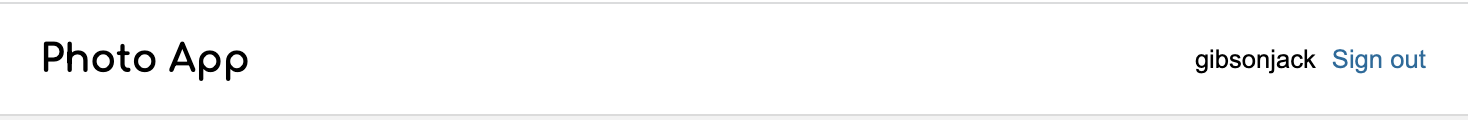
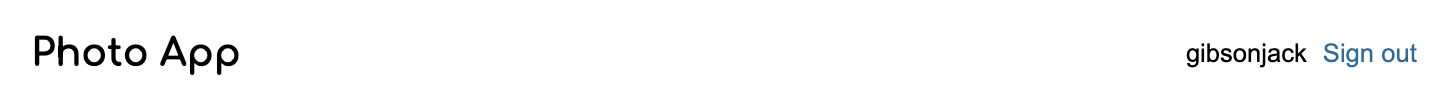
updates

diff --git a/pages/_assignments/hw01.md b/pages/_assignments/hw01.md
@@ -9,6 +9,35 @@ draft: 0
 points: 20
 ---
 
+<style>
+    .interface-table {
+        width: 95%;
+        border: solid 1px #ccc;
+
+    }
+    .interface-table tr, .interface-table th, .interface-table td {
+        border: solid 0px #000;
+        background: #f2f2f2;
+    }
+    .interface-table td {
+        padding: 0px;
+    }
+    .interface-table .right {
+        width: 60%;
+        text-align: right;
+    }
+    .interface-table .right img {
+        width: 85%;
+    }
+    .interface-table .left {
+        width: 40%;
+        text-align: left;
+    }
+    .interface-table .left img {
+        width: 85%;
+    }
+</style>
+
 > {:.callout}
 > ## Collaboration and Code Sharing Policy: Read Carefully
 > For HW1, you are welcome to work in pairs (optional). You must still turn in your own html and css files, but you can collaborate on code and discuss code and strategies. If you collaborate, you'll just list your partner in the comments section of Canvas. 
@@ -20,9 +49,6 @@ points: 20
 > **`ec_points_individual = ec_total_points / n;`**
 
 In this assignment, you will create an HTML / CSS version of a photo sharing app to communicate the look and feel of your app in a web browser.
-
-<img class="frame" style="height:340px;" src="/winter2022/assets/images/hw01/hw01-desktop.gif"/> <img  class="frame" style="height:340px;" src="/winter2022/assets/images/hw01/hw01-mobile.gif"/>
-
 
 ## Part 1: Setup
 
@@ -50,6 +76,46 @@ __NOTE:__ The above code sets up your initial repository. For any additional cod
 1. Use `git add .` to ask git to track any new code files you create.
 1. Use `git commit -am "my message"` to commit changes to your repository.
 1. Use `git push origin main` to push changes to GitHub
+
+## Part 2: Build the PhotoApp Interface
+Using HTML & CSS (no JavaScript yet), you are going to build the following interface:
+
+### Desktop Version
+<img class="frame" style="width:100%;" src="/winter2022/assets/images/hw01/hw01-desktop.gif"/>
+
+There are four main sections:
+#### 1. Nav Bar
+A nav bar, which has the title of the app (or logo) on the left and a username and log out button on the right:
+
+<img class="frame large" src="/winter2022/assets/images/hw01/navbar.png"/>
+
+#### 2. Recommendations Panel
+A recommendations panel, which gives suggestions of who to follow:
+
+<img class="frame" style="width:35%;" src="/winter2022/assets/images/hw01/recommendations.png"/>
+
+### Debug Mode
+<table class="interface-table">
+    <tr>
+        <td colspan="2">
+            <img style="width:100%;" src="/winter2022/assets/images/hw01/navbar.png"/>
+        </td>
+    </tr>
+    <tr class="body">
+        <td class="right">
+            <img src="/winter2022/assets/images/hw01/stories.png"/>
+            <img src="/winter2022/assets/images/hw01/card.png"/>
+        </td>
+        <td class="left">
+            <img src="/winter2022/assets/images/hw01/recommendations.png"/>
+        </td>
+    </tr>
+</table>
+
+
+### Mobile Version
+Same as the desktop version, except that the side panel is missing, and there is less spacing around the cards:
+<img  class="frame medium" src="/winter2022/assets/images/hw01/hw01-mobile.gif"/>
 
 
 ### 1. Implement the following GET routes (8 Points)
